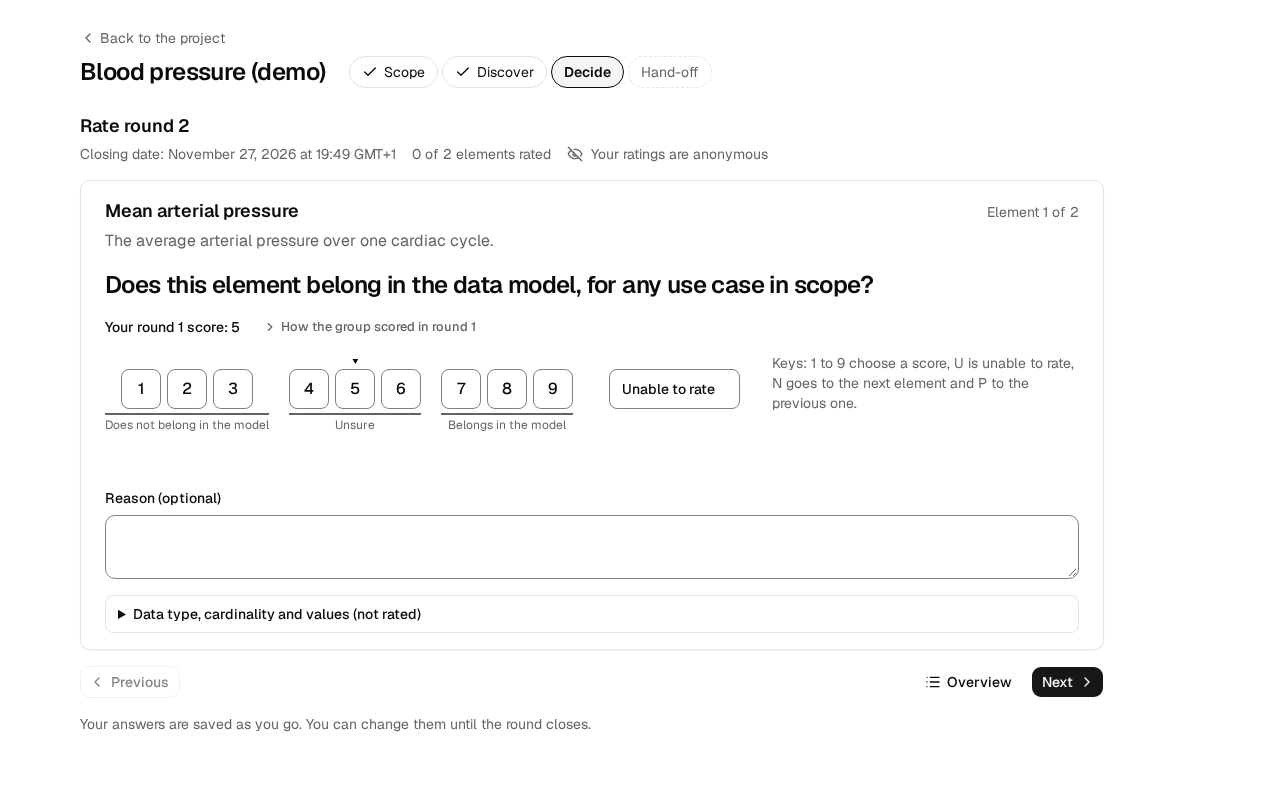
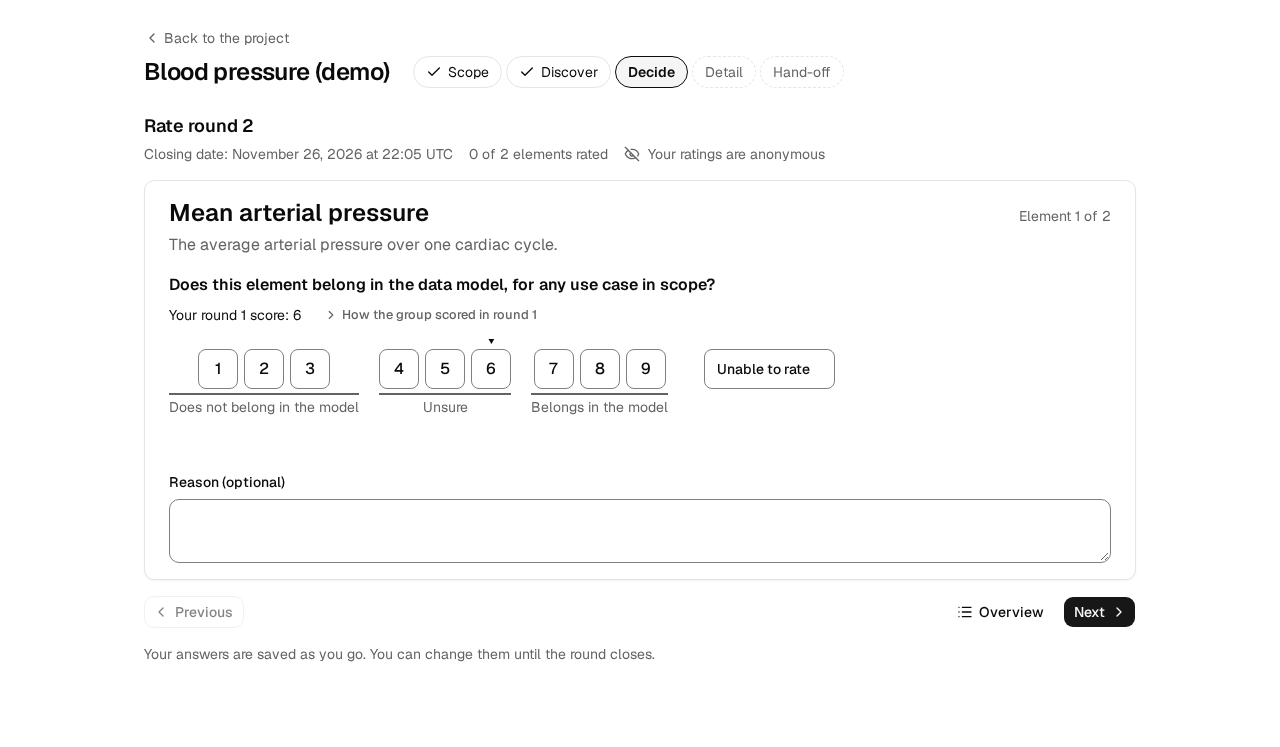
fix: make the element name the title of the rating card
The element name is the largest text on the card and the question sits right above the scale as its label. The card uses the project's type sizes and two weights; the scale labels go from 12 to 14. The keys line shows while the scale has keyboard focus and stays available to screen readers. The README screenshot shows the new card.

diff --git a/src/components/rounds/rating-element.tsx b/src/components/rounds/rating-element.tsx
@@ -122,6 +122,8 @@ function Scale({
   choice,
   editable,
   previous,
+  keysId,
+  onKeyboardFocus,
   onChoose,
 }: Readonly<{
   base: string;
@@ -130,6 +132,9 @@ function Scale({
   editable: boolean;
   /** The participant's own answer in the previous round, when they gave one. */
   previous: { number: number; own: OwnRating } | null;
+  /** The keys help, which describes the scale and shows while it has keyboard focus. */
+  keysId: string;
+  onKeyboardFocus: (focused: boolean) => void;
   onChoose: (value: string) => void;
 }>) {
   const previousValue =
@@ -153,6 +158,11 @@ function Scale({
   return (
     <RadioGroupPrimitive.Root
       aria-labelledby={`${base}-scale`}
+      aria-describedby={keysId}
+      onFocus={(event) => onKeyboardFocus(event.target.matches(":focus-visible"))}
+      onBlur={(event) => {
+        if (!event.currentTarget.contains(event.relatedTarget)) onKeyboardFocus(false);
+      }}
       value={choice}
       disabled={!editable}
       onValueChange={onChoose}
@@ -183,7 +193,7 @@ function Scale({
             </div>
             <p
               id={bandId}
-              className="border-t-2 border-muted-foreground pt-0.5 text-center text-xs text-muted-foreground"
+              className="border-t-2 border-muted-foreground pt-0.5 text-center text-sm text-muted-foreground"
             >
               {band.label}
             </p>
@@ -216,7 +226,7 @@ function PreviousReasons({
   return (
     <div className="flex min-w-0 flex-col gap-0.5">
       <div className="flex flex-wrap items-center gap-x-3">
-        <p id={`${listId}-heading`} className="font-medium">
+        <p id={`${listId}-heading`} className="font-semibold">
           {m.rounds_rate_previous_reasons()}
         </p>
         {reasons.length > REASONS_SHOWN && (
@@ -274,7 +284,7 @@ function PreviousRound({
   return (
     <div className="flex flex-col gap-2 text-sm">
       <div className="flex flex-wrap items-center gap-x-4 gap-y-1">
-        <p className="font-medium">
+        <p>
           {m.rounds_rate_previous_own_value({
             number: previous.number,
             value: ownText(previous.own),
@@ -328,7 +338,7 @@ function PreviousRound({
           <PreviousReasons base={base} reasons={previous.reasons} />
         </div>
         <details className="self-end md:col-start-1 md:row-start-2 md:open:col-span-2 md:open:row-start-3">
-          <summary className="cursor-pointer font-medium">
+          <summary className="cursor-pointer font-semibold">
             {m.rounds_rate_previous_figures()}
           </summary>
           <div className="mt-3 flex flex-col gap-4">
@@ -426,6 +436,7 @@ export function RatingElement({
   };
 
   const digits = digitRange(rule);
+  const [keysShown, setKeysShown] = useState(false);
   useShortcuts((key) => {
     if (!editable) return false;
     if (key === "u") {
@@ -456,7 +467,7 @@ export function RatingElement({
     >
       <div className="flex flex-col gap-1">
         {element.group && (
-          <p className="text-sm font-semibold text-muted-foreground">
+          <p className="text-sm text-muted-foreground">
             <span className="sr-only">
               {kind === "values" ? m.rounds_value_card_element() : m.rounds_card_group()}{" "}
             </span>
@@ -468,7 +479,7 @@ export function RatingElement({
             id={`${base}-heading`}
             ref={headingRef}
             tabIndex={-1}
-            className="min-w-0 text-lg font-semibold break-words outline-none focus-visible:ring-2 focus-visible:ring-ring"
+            className="min-w-0 text-2xl font-semibold break-words outline-none focus-visible:ring-2 focus-visible:ring-ring"
           >
             {element.name}
           </h3>
@@ -482,33 +493,37 @@ export function RatingElement({
         {element.description && (
           <p className="break-words text-muted-foreground">{element.description}</p>
         )}
-        <p id={`${base}-scale`} className="mt-3 text-2xl font-semibold tracking-tight">
+      </div>
+      <div className="flex flex-col gap-2">
+        {/* The question is the label of the scale, so the task sits right above the options. */}
+        <p id={`${base}-scale`} className="font-semibold">
           {kind === "values" ? m.rounds_value_rate_question() : m.rounds_rate_question()}
         </p>
-      </div>
-      {element.previous && (
-        <PreviousRound base={base} element={{ ...element, previous: element.previous }} />
-      )}
-      <div className="flex flex-col gap-2">
-        {/* The keys line sits beside the scale where it fits, under it where it does not. */}
-        <div className="flex flex-wrap items-end gap-x-8 gap-y-2">
-          <Scale
-            base={base}
-            rule={rule}
-            choice={choice}
-            editable={editable}
-            previous={element.previous}
-            onChoose={choose}
-          />
-          <p
-            data-testid="rating-keys"
-            className="min-w-56 flex-1 pb-5 text-sm text-muted-foreground touch:hidden"
-          >
-            {editable && digits
-              ? m.rounds_rate_keys({ first: digits.first, last: digits.last })
-              : m.rounds_rate_keys_move()}
-          </p>
-        </div>
+        {element.previous && (
+          <PreviousRound base={base} element={{ ...element, previous: element.previous }} />
+        )}
+        <Scale
+          base={base}
+          rule={rule}
+          choice={choice}
+          editable={editable}
+          previous={element.previous}
+          keysId={`${base}-keys`}
+          onKeyboardFocus={setKeysShown}
+          onChoose={choose}
+        />
+        {/* Help on demand: the keys show while the scale has keyboard focus. */}
+        <p
+          id={`${base}-keys`}
+          data-testid="rating-keys"
+          className={
+            keysShown ? "text-sm text-muted-foreground touch:hidden" : "sr-only touch:hidden"
+          }
+        >
+          {editable && digits
+            ? m.rounds_rate_keys({ first: digits.first, last: digits.last })
+            : m.rounds_rate_keys_move()}
+        </p>
         <div className="flex min-h-8 flex-wrap items-center gap-x-4 gap-y-2">
           <p
             role="status"

diff --git a/src/components/rounds/rating-element.test.tsx b/src/components/rounds/rating-element.test.tsx
@@ -458,6 +458,36 @@ describe("the scale in the round's bands (DE1)", () => {
     expect(screen.getByTestId("rating-keys").className.split(" ")).toContain("touch:hidden");
   });
 
+  it("shows the keys line only while the scale has keyboard focus, and always to a screen reader", () => {
+    renderWithRule(DEFAULT_RULE);
+    const keys = screen.getByTestId("rating-keys");
+    const scale = screen.getByRole("radiogroup");
+    expect(scale.getAttribute("aria-describedby")).toBe(keys.id);
+    expect(keys.className.split(" ")).toContain("sr-only");
+
+    const five = screen.getByRole("radio", { name: "5" });
+    const matches = vi.spyOn(five, "matches").mockReturnValue(true);
+    fireEvent.focus(five);
+    expect(keys.className.split(" ")).not.toContain("sr-only");
+    fireEvent.blur(five, { relatedTarget: document.body });
+    expect(keys.className.split(" ")).toContain("sr-only");
+
+    matches.mockReturnValue(false);
+    fireEvent.focus(five);
+    expect(keys.className.split(" ")).toContain("sr-only");
+  });
+
+  it("puts the question right above the scale and labels the scale with it", () => {
+    renderWithRule(DEFAULT_RULE);
+    const scale = screen.getByRole("radiogroup");
+    const question = document.getElementById(scale.getAttribute("aria-labelledby") ?? "");
+    expect(question?.textContent).toBe(
+      "Does this element belong in the data model, for any use case in scope?",
+    );
+    expect(screen.getByRole("heading", { level: 3 }).className.split(" ")).toContain("text-2xl");
+    expect(question?.className.split(" ")).not.toContain("text-2xl");
+  });
+
   it("shows the chosen score filled and with a check, the others without", () => {
     renderWithRule(DEFAULT_RULE, { ...ELEMENT, own: { rated: true, score: 6, reason: null } });
     const six = screen.getByRole("radio", { name: "6" });

diff --git a/tests/e2e/rating-cards.spec.ts b/tests/e2e/rating-cards.spec.ts
@@ -403,7 +403,7 @@ for (const locale of ["en", "nl"] as const satisfies Locale[]) {
   });
 }
 
-test("the keys line shows with a mouse and a keyboard, not on a touch screen (DE18)", async ({
+test("the keys line shows while the scale has keyboard focus, not on a click or a touch screen (DE18)", async ({
   db,
   browser,
 }) => {
@@ -425,9 +425,19 @@ test("the keys line shows with a mouse and a keyboard, not on a touch screen (DE
     const rater = await pageFor(browser, "en", participant, device);
     await rater.goto(ratePath);
     await expectHydrated(rater.getByRole("radio", { name: "7", exact: true }));
-    const keys = rater.getByText(/^Keys:/);
-    if (shown) await expect(keys).toBeVisible();
+    // Owner decision 2026-11-25: help on demand. A screen reader always has the line (sr-only),
+    // which Playwright counts as visible, so the class tells whether a sighted user sees it.
+    const keys = rater.getByTestId("rating-keys");
+    await rater.getByRole("radio", { name: "7", exact: true }).click();
+    if (shown) await expect(keys).toHaveClass(/\bsr-only\b/);
     else await expect(keys).toBeHidden();
+    await rater.getByRole("heading", { level: 3, name: "Systolic pressure" }).focus();
+    await rater.keyboard.press("Tab");
+    await expect(rater.getByRole("radio", { name: "7", exact: true })).toBeFocused();
+    if (shown) {
+      await expect(keys).not.toHaveClass(/\bsr-only\b/);
+      await expect(keys).toHaveText(/^Keys:/);
+    } else await expect(keys).toBeHidden();
     await expectAxeClean(rater);
     await rater.context().close();
   }

diff --git a/CHANGELOG.md b/CHANGELOG.md
@@ -9,6 +9,13 @@ the project uses [Semantic Versioning](https://semver.org/).
 
 ## [Unreleased]
 
+### Changed
+
+- The rating card is easier to read: the element name is the largest text
+  on the card, and the question sits directly above the scale as its label.
+  The card uses fewer type sizes, and the scale labels are larger. The line
+  with the keys shows only while you use the scale with the keyboard.
+
 ## [0.3.0] - 2026-11-25
 
 ### Added
